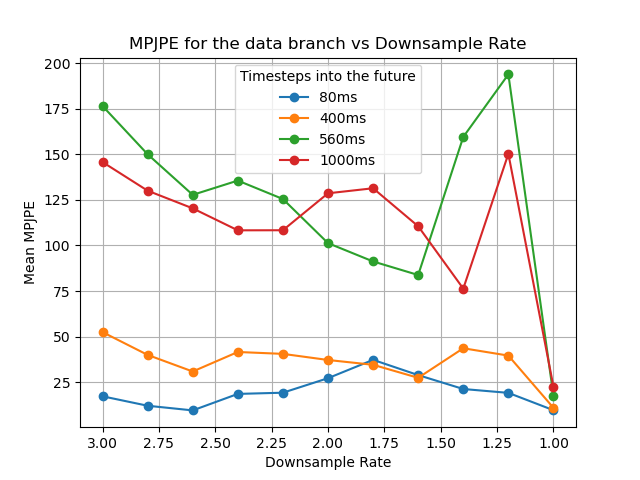
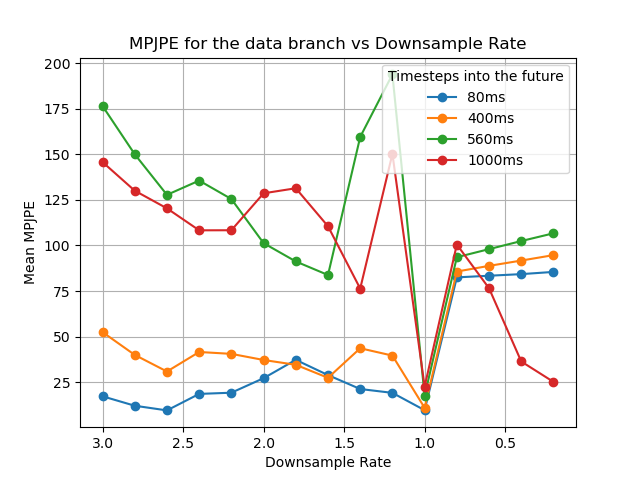
Different down- and upsampling frequency

diff --git a/exps/run/single_evaluate_physmop.py b/exps/run/single_evaluate_physmop.py
@@ -12,6 +12,9 @@ import numpy as np
 import torch
 import matplotlib.pyplot as plt
 
+import torch.nn.functional as F
+
+
 time_idx = [1, 3, 13, 24] # Corresponds to idx*40 ms in the future
 selected_indices = [t + config.hist_length - 1 for t in time_idx]
 
@@ -49,25 +52,44 @@ if __name__ == "__main__":
 
         print(f"Normal batch shape: {normal_batch['q'].shape}")
 
-        downsample_rates = np.arange(3, 0.9, -0.2)  # From 3 to 1, step -0.2
+        downsample_rates = np.arange(3, 0.1, -0.2)  # From 3 to 0.1, step -0.2
         mpjpe_data_results = []
         mpjpe_physics_results = []
         mpjpe_fusion_results = []
 
         for downsample_rate in downsample_rates:
-            start_index = config.pred_length + int(config.hist_length * downsample_rate)
-            # Generate indices for downsampling
-            num_hist_frames = config.hist_length
-            hist_indices = np.round(np.arange(-start_index, -config.pred_length, downsample_rate)).astype(int)
+            print(f"Processing rate: {downsample_rate:.2f}")
+            processed_batch = {}
 
-            predicted_batch = {k: v[:, -config.pred_length:, ...] if isinstance(v, torch.Tensor) else v for k, v in batch.items()}
-            downsampled_input = {k: v[:, hist_indices, ...] if isinstance(v, torch.Tensor) else v for k, v in batch.items()}
-            print(f"Downsampled input shape: {downsampled_input['q'].shape}")
+            if downsample_rate >= 1.0 or np.isclose(downsample_rate, 1.0):
+                # Downsample: select frames at intervals
+                start_index = config.pred_length + int(config.hist_length * downsample_rate)
+                # Generate indices for downsampling
+                num_hist_frames = config.hist_length
+                hist_indices = np.round(np.arange(-start_index, -config.pred_length, downsample_rate)).astype(int)
+                processed_batch = {k: v[:, hist_indices, ...] if isinstance(v, torch.Tensor) else v for k, v in batch.items()}
+            
+            elif downsample_rate < 1.0:
+                # Upsample: interpolate to more frames
+                upsample_factor = 1.0 / downsample_rate
+                processed_batch = {}
+                for k, v in batch.items():
+                    if k == 'q' and isinstance(v, torch.Tensor):
+                        orig_time_steps = v.shape[1]
+                        new_time_steps = int(np.round(orig_time_steps * upsample_factor))
+                        v_perm = v.permute(0, 2, 1)  # [batch, features, time]
+                        v_upsampled = F.interpolate(v_perm, size=new_time_steps, mode='linear', align_corners=True)
+                        v_upsampled = v_upsampled.permute(0, 2, 1)  # [batch, time, features]
+                        processed_batch[k] = v_upsampled[:, -config.hist_length:, ...]
+                    else:
+                        processed_batch[k] = v[:, -config.hist_length:, ...]
+
             combined_batch = {}
-            for k in downsampled_input.keys():
-                if isinstance(downsampled_input[k], torch.Tensor) and isinstance(predicted_batch[k], torch.Tensor):
+            predicted_batch = {k: v[:, -config.pred_length:, ...] if isinstance(v, torch.Tensor) else v for k, v in batch.items()}
+            for k in processed_batch.keys():
+                if isinstance(processed_batch[k], torch.Tensor) and isinstance(predicted_batch[k], torch.Tensor):
                     # Concatenate along the frame/time dimension (usually dim=1)
-                    combined_batch[k] = torch.cat([downsampled_input[k], predicted_batch[k]], dim=1)
+                    combined_batch[k] = torch.cat([processed_batch[k], predicted_batch[k]], dim=1)
 
             # assert that the last config.pred_length frames are the same between combined and normal batch
             assert torch.all(combined_batch['q'][:, -config.pred_length:, :] == normal_batch['q'][:, -config.pred_length:, :]), "Last frames do not match between combined and normal batch"
@@ -76,7 +98,7 @@ if __name__ == "__main__":
             gt_J, pred_J_data, pred_J_physics_gt, pred_J_fusion = realtime_model.model_output_to_3D_joints(model_output, batch_info, mode='test')
 
             # visualize_continuous_motion(gt_J, title="Ground Truth Motion", skeleton_type="amass")
-            # visualize_motion_with_ground_truth(pred_J_fusion.cpu().detach().numpy(), gt_J.cpu().detach().numpy(), title="Predicted vs Ground Truth Motion (Data)",
+            # visualize_motion_with_ground_truth(pred_J_data.cpu().detach().numpy(), gt_J.cpu().detach().numpy(), title="Predicted vs Ground Truth Motion (Data)",
             #                                     skeleton_type="amass", save_gif_path="output.gif")
             eval_results = realtime_model.evaluation_metrics(gt_J, pred_J_data, pred_J_physics_gt, pred_J_fusion)
 
@@ -91,7 +113,6 @@ if __name__ == "__main__":
         mpjpe_physics_gt_all.append(np.array(mpjpe_physics_results))  # shape: (num_downsample_rates, 4)
         mpjpe_fusion_all.append(np.array(mpjpe_fusion_results))  # shape: (num_downsample_rates, 4)
 
-        break
     mpjpe_data_all = np.array(mpjpe_data_all)  # shape: (num_samples, num_downsample_rates, 4)
     mpjpe_data_all = np.mean(mpjpe_data_all, axis=0)  # shape: (num_downsample_rates, 4)
     mpjpe_physics_gt_all = np.array(mpjpe_physics_gt_all)  # shape: (num_samples, num_downsample_rates, 4)
@@ -99,14 +120,31 @@ if __name__ == "__main__":
     mpjpe_fusion_all = np.array(mpjpe_fusion_all)  # shape: (num_samples, num_downsample_rates, 4)
     mpjpe_fusion_all = np.mean(mpjpe_fusion_all, axis=0)  # shape: (num_downsample_rates, 4)
 
-    plt.figure()
-    for i, label in enumerate(["80ms", "400ms", "560ms", "1000ms"]):
-        plt.plot(downsample_rates, mpjpe_fusion_all[:, i], marker='o', label=label)
-    plt.xlabel('Downsample Rate')
-    plt.ylabel('Mean MPJPE')
-    plt.title('MPJPE for the fusion branch vs Downsample Rate')
-    plt.gca().invert_xaxis()  # Optional: show 3->1 left to right
-    plt.grid(True)
-    plt.legend(title='Timesteps into the future')
-    plt.savefig('mpjpe_vs_downsample_rate_fusion.png')
-    plt.show()
+    branch_results = {
+        "data": mpjpe_data_all,
+        "physics_gt": mpjpe_physics_gt_all,
+        "fusion": mpjpe_fusion_all
+    }
+    branch_titles = {
+        "data": "MPJPE for the data branch vs Downsample Rate",
+        "physics_gt": "MPJPE for the physics branch vs Downsample Rate",
+        "fusion": "MPJPE for the fusion branch vs Downsample Rate"
+    }
+    branch_filenames = {
+        "data": "mpjpe_vs_downsample_rate_data.png",
+        "physics_gt": "mpjpe_vs_downsample_rate_physics.png",
+        "fusion": "mpjpe_vs_downsample_rate_fusion.png"
+    }
+
+    for branch, results in branch_results.items():
+        plt.figure()
+        for i, label in enumerate(["80ms", "400ms", "560ms", "1000ms"]):
+            plt.plot(downsample_rates, results[:, i], marker='o', label=label)
+        plt.xlabel('Downsample Rate')
+        plt.ylabel('Mean MPJPE')
+        plt.title(branch_titles[branch])
+        plt.gca().invert_xaxis()
+        plt.grid(True)
+        plt.legend(title='Timesteps into the future')
+        plt.savefig(branch_filenames[branch])
+        plt.close()

diff --git a/exps/run/visualize_motion.py b/exps/run/visualize_motion.py
@@ -75,8 +75,8 @@ def visualize_continuous_motion(motion_sequence, title="Continuous Motion Visual
     if save_gif_path:
         ani.save(save_gif_path, writer=PillowWriter(fps=10))
     else:
-        while True:
-            plt.show()
+        # while True:
+        plt.show()
 
 def preprocess(filename):
     info = open(filename, 'r').readlines()
